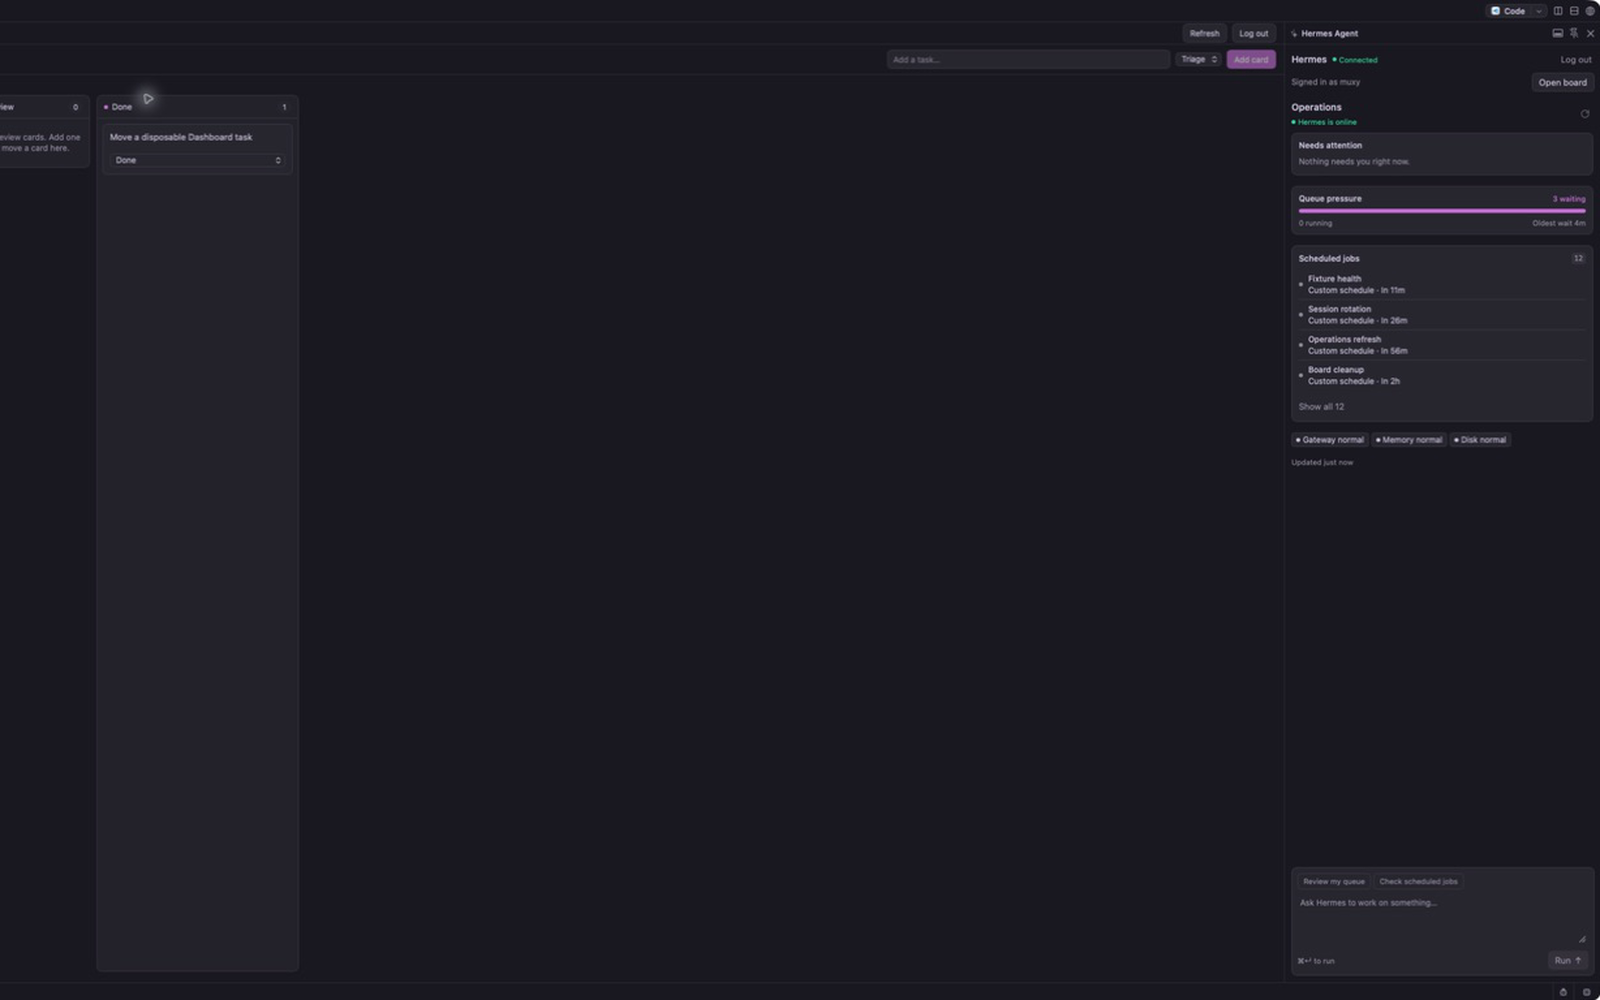
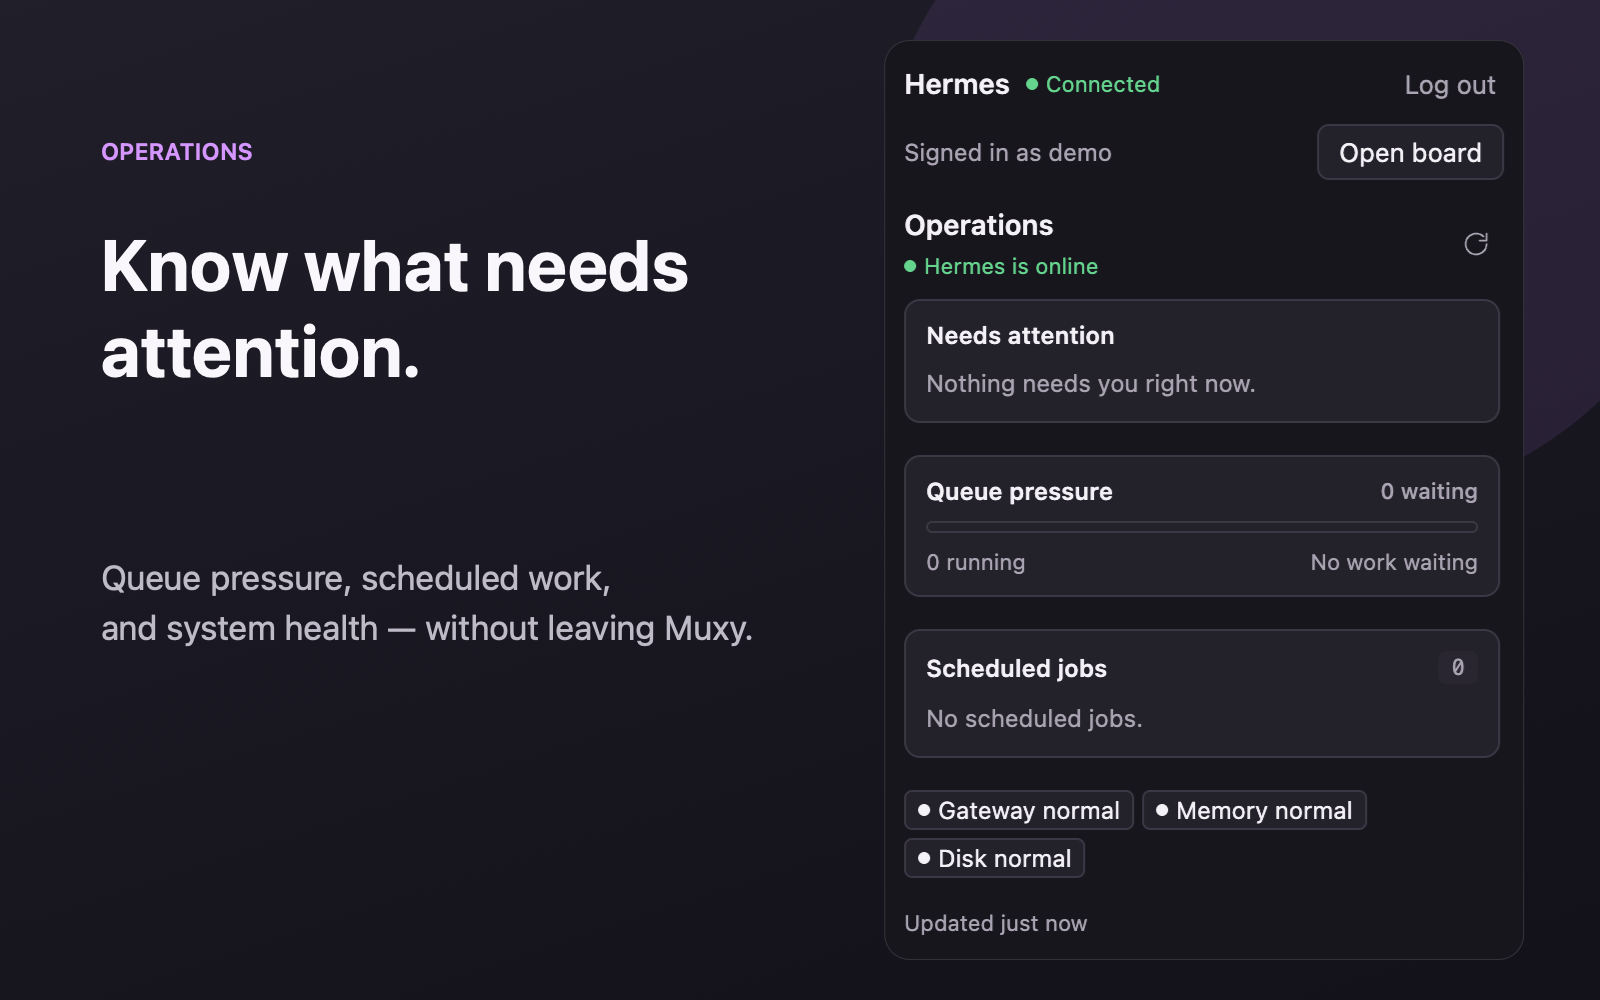
docs: improve README screenshots and Kanban guide (#2)
* docs: add focused README screenshots

* docs: record README screenshot task

* docs(quick-260821-e4b): sharpen README screenshots

* docs(quick-260821-e4b): record sharp screenshot delivery

---------

diff --git a/test/ui-contract.test.js b/test/ui-contract.test.js
@@ -58,7 +58,7 @@ test("OAuth-only providers and password security boundaries are explicit in both
     assert.match(source, /Muxy SSH workspaces are not supported in this beta/);
     assert.match(source, /type: "password"/);
   }
-  for (const heading of ["What you can do", "Compatibility", "Security", "Permissions", "Privacy", "Troubleshooting", "Uninstalling"]) {
+  for (const heading of ["Agent runs and approvals", "Kanban boards", "Compatibility", "Security", "Permissions", "Privacy", "Troubleshooting", "Uninstalling"]) {
     assert.match(readme, new RegExp(heading));
   }
   assert.match(readme, /Hermes Agent.*is an open-source AI agent/);
@@ -67,6 +67,12 @@ test("OAuth-only providers and password security boundaries are explicit in both
   assert.match(readme, /Muxy 1\.5\.0 \(945\)/);
   assert.match(readme, /Hermes 0\.20\.2/);
   assert.match(readme, /No analytics or telemetry/);
+  assert.match(readme, /assets\/readme\/operations\.png/);
+  assert.match(readme, /assets\/readme\/agent-approval\.png/);
+  assert.match(readme, /assets\/readme\/project-board\.png/);
+  assert.doesNotMatch(readme, /assets\/demo\/|<video|\.gif|\.mp4/i);
+  assert.match(readme, /does not automatically attach an agent request to a card/);
+  assert.match(readme, /does not.*provide drag-and-drop/);
 });
 
 test("native styles retain themes, focus, responsive scale, and reduced motion", async () => {

diff --git a/README.md b/README.md
@@ -2,18 +2,32 @@
 
 [Hermes Agent](https://github.com/NousResearch/hermes-agent) is an open-source AI agent that you run yourself. This extension connects Muxy to the Hermes Dashboard you already have. It does not install Hermes, host it, or change its configuration.
 
-From Muxy, you can check on Hermes, start and guide an agent, respond to approval requests, manage scheduled work, and use Hermes project boards.
+Keep an eye on Hermes, start and guide an agent, respond to approvals, and manage project boards without leaving Muxy.
 
-![Hermes operations panel](./assets/screenshots/operations.png)
+![Hermes operations summary showing health, queue pressure, and scheduled work](./assets/readme/operations.png)
 
-## What you can do
+## Agent runs and approvals
 
-- See whether Hermes is online and review work that needs attention
-- Start an agent and follow its response and tool activity as it happens
-- Approve or reject actions, send guidance, or stop a run
-- Inspect scheduled jobs and their recent status
-- Create, select, and move cards on Hermes project boards
+Start a request from the Hermes panel and follow the response and tool activity as it happens. When an action needs approval, the request stays visible until you choose what to do.
+
+- Allow an action once, for the session, or always
+- Deny an action, send guidance, or stop the run
 - Reconnect automatically if the live connection drops while the panel is open
+
+![Hermes approval request with explicit allow and deny controls](./assets/readme/agent-approval.png)
+
+## Kanban boards
+
+Run **Hermes: Open Project Board** to work with the board currently selected in Hermes.
+
+- Add a card to an available starting status
+- Move a card through the status menu as the work changes
+- Confirm the change before moving a card to Blocked or Done
+- Refresh the board or explicitly select another one
+
+Cards move only when you choose a new status. The extension does not automatically attach an agent request to a card, move cards when a run finishes, or provide drag-and-drop.
+
+![Hermes Project Board showing the Launchpad Checklist card in Done](./assets/readme/project-board.png)
 
 ## What you need
 

diff --git a/.planning/STATE.md b/.planning/STATE.md
@@ -27,7 +27,7 @@ See: .planning/PROJECT.md (updated 2026-08-18)
 Phase: 7 of 7 — Marketplace Submission
 Plan: Not started
 Status: Ready — Phase 6 passed the revised `0.1.0` support matrix; Muxy SSH workspaces are explicitly unsupported and tracked for the next release
-Last activity: 2026-08-20 — Rewrote the marketplace README in plain language and clearly separated Hermes Agent from the Muxy extension
+Last activity: 2026-08-21 — Completed quick task 260821-e4b: replaced blurry README and marketplace screenshots with sharp high-density captures
 
 ## Performance Metrics
 
@@ -136,6 +136,8 @@ None yet.
 | 260820-fqf | Make scheduled jobs expandable, show cadence, and integration-test the operations panel | 2026-08-20 | eab3fc3 | Passed | [260820-fqf-make-scheduled-jobs-expandable-show-cade](./quick/260820-fqf-make-scheduled-jobs-expandable-show-cade/) |
 | 260820-n3r | Descope Muxy SSH workspaces from 0.1.0 and track restoration as an open issue | 2026-08-20 | this commit | Passed | [260820-n3r-descope-muxy-ssh-workspaces-from-0-1-0-a](./quick/260820-n3r-descope-muxy-ssh-workspaces-from-0-1-0-a/) |
 | 260820-ntb | Rewrite README in clear human language that accurately distinguishes Hermes Agent from the Muxy extension | 2026-08-20 | this commit | Passed | [260820-ntb-rewrite-readme-in-clear-human-language-t](./quick/260820-ntb-rewrite-readme-in-clear-human-language-t/) |
+| 260821-djl | Simplify the README around clear static screenshots and remove the hard-to-follow demo-video presentation | 2026-08-21 | ffae54e | Passed | [260821-djl-simplify-the-readme-around-clear-static-](./quick/260821-djl-simplify-the-readme-around-clear-static-/) |
+| 260821-e4b | Replace blurry README and marketplace screenshots with sharp high-density captures | 2026-08-21 | 9e2e483 | Passed | [260821-e4b-replace-blurry-readme-and-marketplace-sc](./quick/260821-e4b-replace-blurry-readme-and-marketplace-sc/) |
 
 ### Roadmap Evolution
 

diff --git a/.planning/quick/260821-djl-simplify-the-readme-around-clear-static-/260821-djl-PLAN.md b/.planning/quick/260821-djl-simplify-the-readme-around-clear-static-/260821-djl-PLAN.md
@@ -1,0 +1,27 @@
+---
+quick_id: 260821-djl
+mode: quick
+description: Simplify the README around clear static screenshots and remove the hard-to-follow demo-video presentation
+---
+
+# Quick task 260821-djl
+
+## Task 1: Replace the demo sequence with readable static screenshots
+
+**Files:** `assets/readme/**`, `assets/screenshots/**`, obsolete `assets/demo/**`
+
+**Action:** Produce three privacy-safe static views—Operations, approval, and Kanban—using only the isolated Launchpad Checklist capture. Optimize each composition for its actual display size, retain exact 1600×1000 marketplace counterparts, and remove the GIF/MP4 assets.
+
+**Verify:** Every final image is manually inspected, contains only demo-safe content, and is readable at 760-pixel GitHub width; marketplace images remain exactly 1600×1000.
+
+**Done:** The screenshots clearly show the product without blank regions, browser chrome, private data, or a video narrative.
+
+## Task 2: Rewrite the README around the three product views
+
+**Files:** `README.md`, `scripts/validate-dist.mjs`, `package.json`, `test/**`, obsolete demo-render/audit scripts
+
+**Action:** Lead with a short product explanation, show the Operations, approval, and Kanban screenshots beside concise feature copy, keep setup/security/reference material scannable, and remove video-rendering documentation and tooling.
+
+**Verify:** README desktop and approximately 390-pixel previews are understandable; `npm test`, `npm run build`, `npm run validate:dist`, and `npm run validate` pass.
+
+**Done:** The README is easy to follow and the repository contains only the static screenshot workflow the user wants.

diff --git a/.planning/quick/260821-djl-simplify-the-readme-around-clear-static-/260821-djl-SUMMARY.md b/.planning/quick/260821-djl-simplify-the-readme-around-clear-static-/260821-djl-SUMMARY.md
@@ -1,0 +1,32 @@
+---
+quick_id: 260821-djl
+status: complete
+completed: 2026-08-21
+commit: ffae54e
+---
+
+# Clear static README screenshots
+
+The README now presents Hermes Agent through three readable, privacy-safe static views instead of a GIF/video narrative.
+
+## Delivered
+
+- Added 760×475 Operations, approval, and project-board PNGs designed at their actual README display size.
+- Rewrote the opening feature flow around agent activity, explicit approvals, and user-managed Kanban status changes.
+- Retained the accurate Kanban ownership contract: cards move only when the user changes their status, with confirmation for Done and Blocked.
+- Replaced all three required marketplace screenshots with matching 1600×1000 feature compositions.
+- Updated distribution validation to enforce the three README PNGs and the unchanged marketplace screenshot inventory.
+
+## Privacy review
+
+- Every product crop excludes browser chrome, sidebars, selectors, connection details, and unrelated workspace content.
+- Apple Vision OCR was run against all six final images. Recognized visible text contained only generic product copy and the disposable `muxy-hermes-demo-launchpad` task path/text.
+- Embedded-string checks found no user paths, personal names, Tankhouse references, hosts, URLs, credentials, or tokens.
+- Desktop-size and 358-pixel mobile previews were visually inspected.
+
+## Verification
+
+- `npm test`: 77/77 passed.
+- `npm run validate:dist`: passed with a deterministic 17-file distribution.
+- `npm run validate`: passed with zero high/critical audit findings and identical clean-copy output.
+- `git diff --check`: passed.

diff --git a/.planning/quick/260821-e4b-replace-blurry-readme-and-marketplace-sc/260821-e4b-PLAN.md b/.planning/quick/260821-e4b-replace-blurry-readme-and-marketplace-sc/260821-e4b-PLAN.md
@@ -1,0 +1,27 @@
+---
+quick_id: 260821-e4b
+mode: quick
+description: Replace blurry README and marketplace screenshots with sharp high-density captures
+---
+
+# Quick task 260821-e4b
+
+## Task 1: Recapture the real extension UI losslessly at 2× density
+
+**Files:** temporary local visual fixture and raw captures; no production runtime files
+
+**Action:** Render the actual Operations, approval, and project-board components with isolated demo-safe state in a fixed dark Muxy theme. Capture lossless PNGs at 2× device scale so all UI text has enough source pixels for both output sizes.
+
+**Verify:** Raw captures are PNG, contain only allowlisted demo text, and provide at least one source pixel per marketplace output pixel in every embedded UI region.
+
+**Done:** No final composition depends on the earlier JPEG-compressed full-window frames or enlarges a low-resolution UI crop.
+
+## Task 2: Rebuild and validate the six final screenshots
+
+**Files:** `assets/readme/*.png`, `assets/screenshots/*.png`, GSD task records
+
+**Action:** Recreate the existing three compositions from the high-density captures, retaining exact 760×475 README and 1600×1000 marketplace dimensions. Inspect native and mobile-size previews, OCR the outputs, run metadata/string checks, tests, deterministic distribution validation, and full release validation.
+
+**Verify:** Images are visibly sharp at native size, privacy checks pass, `npm test`, `npm run validate:dist`, and `npm run validate` pass.
+
+**Done:** The screenshot compositions remain unchanged in concept but product typography, borders, icons, and controls render cleanly without blur.

diff --git a/.planning/quick/260821-e4b-replace-blurry-readme-and-marketplace-sc/260821-e4b-SUMMARY.md b/.planning/quick/260821-e4b-replace-blurry-readme-and-marketplace-sc/260821-e4b-SUMMARY.md
@@ -1,0 +1,31 @@
+---
+quick_id: 260821-e4b
+status: complete
+completed: 2026-08-21
+commit: 9e2e483
+---
+
+# Sharp high-density screenshots
+
+The README and marketplace screenshots retain the approved compositions, but every embedded product view now comes from a lossless high-density render of the real extension UI.
+
+## Delivered
+
+- Re-rendered Operations and approval directly from the production panel components at 2× device scale.
+- Re-rendered the focused project board directly from the production board component at 3× device scale.
+- Rebuilt all three 760×475 README images and all three 1600×1000 marketplace images without enlarging low-resolution UI crops.
+- Kept the capture state isolated and demo-safe; no capture fixture or raw frame was added to the repository.
+
+## Privacy and visual review
+
+- Browser chrome, account menus, unrelated projects, schedules, connection details, and personal sidebars are absent.
+- Apple Vision OCR recognized only generic product copy, `Launchpad Checklist`, `muxy-hermes-demo`, and `/workspace/muxy-hermes-demo-launchpad/app.js` demo content.
+- Embedded-string checks found no personal identifiers, hostnames, URLs, credentials, tokens, or user filesystem paths.
+- Native 760-pixel and 358-pixel mobile previews were inspected; UI typography, borders, icons, and controls remain crisp.
+
+## Verification
+
+- `npm test`: 77/77 passed.
+- `npm run validate:dist`: deterministic 17-file distribution passed.
+- `npm run validate`: passed with zero high/critical audit findings and matching clean-copy output.
+- `git diff --check`: passed.
